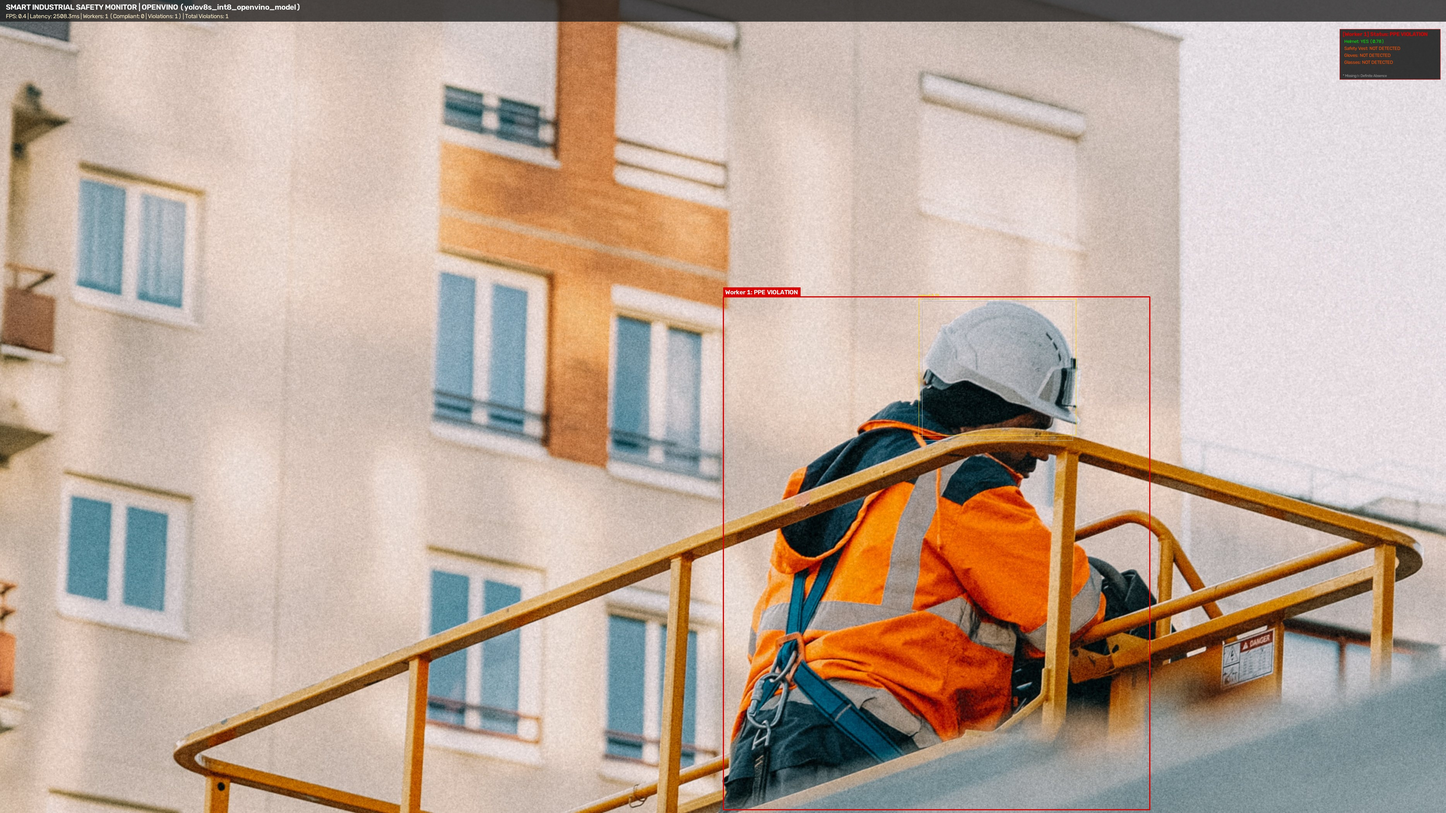
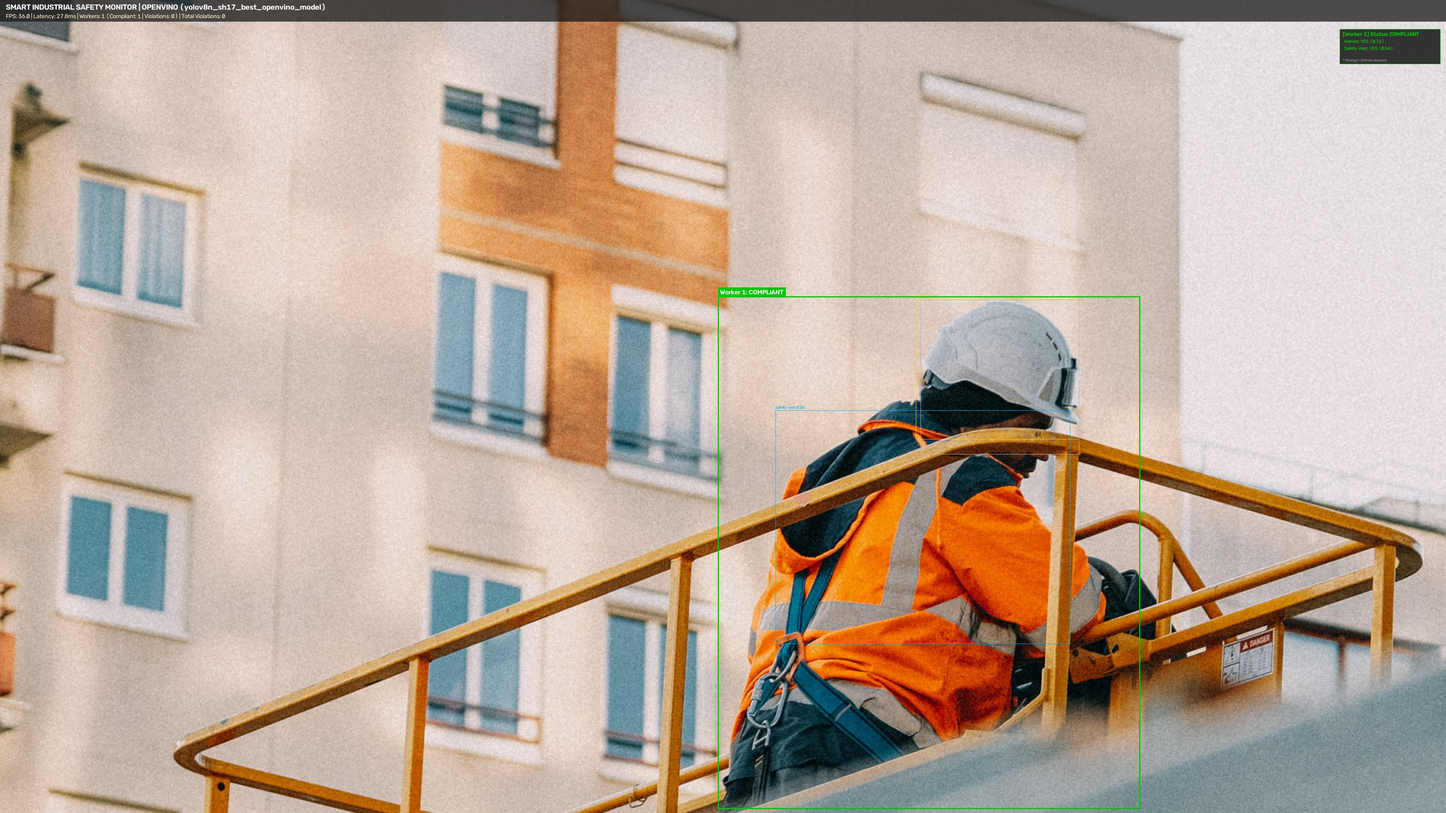
fix(compliance): map high-visibility safety suits/jackets to body protection and optimize default confidence threshold for occluded PPE

diff --git a/app/detector.py b/app/detector.py
@@ -60,20 +60,19 @@ class PPEDetector:
         # Determine FP16 / Tensor Core acceleration
         self.use_half = False
         if not self.is_openvino and self.device in ["0", "cuda", "cuda:0"] and torch.cuda.is_available():
-            self.use_half = True
-            print(f"[detector] Enabled Tensor Core FP16 half-precision on {self.device.upper()}")
+            try:
+                self.model.to("cuda")
+                if hasattr(self.model, "model") and self.model.model is not None:
+                    self.model.model.half()
+                self.use_half = True
+                print(f"[detector] Enabled native Tensor Core FP16 execution on {self.device.upper()}")
+            except Exception as e:
+                print(f"[detector] FP16 conversion note: {e}")
 
         # Pre-warm model with dummy inference to avoid initial frame latency spikes
         dummy_frame = np.zeros((self.imgsz, self.imgsz, 3), dtype=np.uint8)
         try:
-            warm_kwargs = {
-                "imgsz": self.imgsz,
-                "device": self.device,
-                "verbose": False
-            }
-            if self.use_half:
-                warm_kwargs["half"] = True
-            _ = self.model.predict(dummy_frame, **warm_kwargs)
+            _ = self.model.predict(dummy_frame, imgsz=self.imgsz, device=self.device, verbose=False)
             print(f"[detector] Engine pre-warmed. Active classes: {len(self.class_names)} ({self.runtime_name} {self.precision})")
         except Exception as e:
             print(f"[detector] Note: warm-up skipped: {e}")
@@ -81,7 +80,7 @@ class PPEDetector:
     def detect(
         self,
         image: np.ndarray,
-        conf_thresh: float = 0.35,
+        conf_thresh: float = 0.25,
         iou_thresh: float = 0.45,
         imgsz: int = None
     ) -> Tuple[List[Dict[str, Any]], float]:
@@ -99,8 +98,6 @@ class PPEDetector:
             "device": self.device,
             "verbose": False
         }
-        if self.use_half:
-            pred_kwargs["half"] = True
 
         t0 = time.perf_counter()
         results = self.model.predict(image, **pred_kwargs)[0]

diff --git a/app/compliance.py b/app/compliance.py
@@ -16,14 +16,15 @@ class PPEComplianceEngine:
     determines compliance status, and tracks violation statistics.
     """
     # Mapping of PPE concepts to compatible model class names
+    # High-visibility body gear satisfies mandatory upper-body protection (vests, jackets, and safety-suits)
     PPE_SYNONYMS = {
         "helmet": ["helmet", "blue helmet", "red helmet", "white helmet", "yellow helmet"],
-        "safety-vest": ["safety-vest", "vest"],
+        "safety-vest": ["safety-vest", "vest", "safety-suit"],
         "gloves": ["gloves"],
         "glasses": ["glasses", "glass"],
         "face-mask": ["face-mask-medical"],
         "face-guard": ["face-guard"],
-        "safety-suit": ["safety-suit", "medical-suit"]
+        "safety-suit": ["safety-suit", "medical-suit", "safety-vest"]
     }
 
     def __init__(

diff --git a/app/main.py b/app/main.py
@@ -326,7 +326,7 @@ if __name__ == "__main__":
                         help="Inference resolution scale (480/512 for higher speed, 640 for standard)")
     parser.add_argument("--stride", type=int, default=1, choices=[1, 2, 3],
                         help="Frame stride (1 = every frame, 2 = alternate frames for 2x speedup)")
-    parser.add_argument("--conf", type=float, default=0.35, help="Detection confidence threshold")
+    parser.add_argument("--conf", type=float, default=0.25, help="Detection confidence threshold (default 0.25)")
     parser.add_argument("--required-ppe", type=str, default="helmet,safety-vest",
                         help="Comma-separated required PPE list")
     parser.add_argument("--save-violations", action="store_true", default=True,

diff --git a/app/dashboard.py b/app/dashboard.py
@@ -141,7 +141,7 @@ with col_stride:
     frame_stride = st.selectbox("Frame Stride", [1, 2, 3], index=1, help="Process every Nth frame (Stride 2 doubles playback throughput).")
 
 # Confidence & Policy Controls
-conf_threshold = st.sidebar.slider("Detection Confidence Threshold", 0.15, 0.90, 0.35, 0.05)
+conf_threshold = st.sidebar.slider("Detection Confidence Threshold", 0.10, 0.85, 0.25, 0.05, help="0.20-0.25 captures occluded PPE gear while avoiding false positives.")
 
 st.sidebar.subheader("Mandatory PPE Policy")
 PPE_CHOICES = ["helmet", "safety-vest", "gloves", "glasses", "face-mask"]
